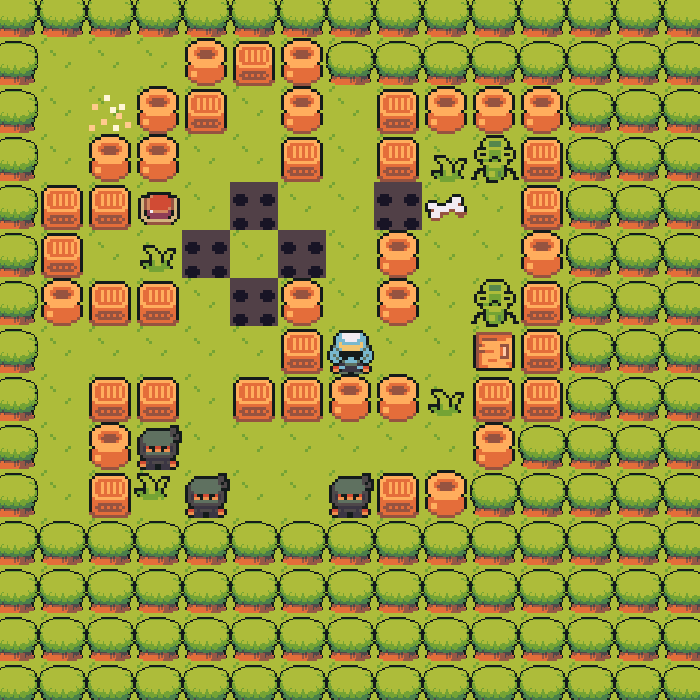
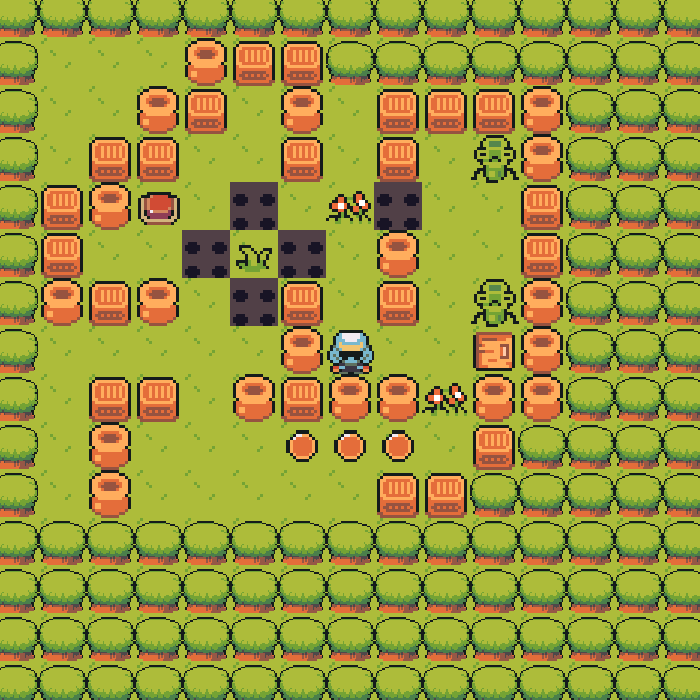
coin

diff --git a/game.py b/game.py
@@ -1,6 +1,5 @@
 import pygame
 import sys
-import time
 from camera import Camera
 from floor import Floor
 from button import Button
@@ -64,28 +63,26 @@ class Game:
         }
         self.activeMenu = False
         self.activeOptionsMenu = False
-        self.enemies = []
-        self.coordSpikes = []
+        self.enemies = None
+        self.coordSpikes = None
         self.player = None
-        self.camera = Camera(self)
+        self.camera = None
         # группы спрайтов
-        self.all_sprites = pygame.sprite.Group()
-        self.tiles_group = pygame.sprite.Group()
-        self.player_group = pygame.sprite.Group()
-        self.enemies_group = pygame.sprite.Group()
-        self.ladders_group = pygame.sprite.Group()
+        self.all_sprites = None
+        self.tiles_group = None
+        self.player_group = None
+        self.enemies_group = None
+        self.ladders_group = None
+        self.moneyCounter = None
         self.optionsMenu = self.createOptionMenu()
         self.updateBindButtonText()
         self.pageSwitches = [Button(5, 330, 40, 40, '', image='leftBtn.png', action=self.optionsMenu.previousPage,
                                     cols=3),
                              Button(655, 330, 40, 40, '', image='rightBtn.png', action=self.optionsMenu.nextPage,
                                     cols=3)]
-        level_list = functions.load_level('map.txt')
-        self.level, self.player, self.enemies, self.coordSpikes, self.level_x, self.level_y = functions.generate_level(
-            level_list,
-            self,
-            False)
-        self.namesLevels = listdir('Data/levels')
+        self.level, self.player, self.enemies, self.coordSpikes, self.level_x, self.level_y = [None, None, None,
+                                                                                               None, None, None]
+        self.dirLevels = listdir('Data/levels')
         self.indLevel = 0
 
     def run(self, name_level):
@@ -122,9 +119,11 @@ class Game:
                      [Button(0, 0, 80, 80, 'PLAY', action=self.closeMenu,
                              image='buttonLong.png'),
                       Button(0, 0, 80, 80, 'OPTIONS', image='buttonLong.png', action=self.openOptionsMenu),
+                      Button(0, 0, 80, 80, 'RESET', name_level, action=self.run, image='buttonLong.png'),
                       Button(0, 0, 80, 80, 'LEVELS', action=self.menu_levels,
-                             image='buttonLong.png'),
-                      Button(0, 0, 80, 80, 'MENU', action=self.menu, image='buttonLong.png')])
+                             image='buttonLong.png')])
+        self.moneyCounter = RowWidgets(5, 0, 65, 50, [Picture(0, 0, 'Data/sprites/coinUI.png', 30, 30),
+                                                      Text(0, 0, (0, 0, 0), 30, '0')])
         pygame.image.save(self.screen, f'Data/screenShots/{name_level.rstrip(".txt")}SH.png')
         while True:
             self.screen.fill(pygame.Color('white'))
@@ -166,6 +165,7 @@ class Game:
                 self.camera.apply(sprite)
                 sprite.draw(self.screen)
             pause_btn.draw(self.screen)
+            self.moneyCounter.draw(self.screen)
             if self.check_intersection():
                 self.death()
                 self.end_screen(False)
@@ -251,7 +251,7 @@ class Game:
         fon = self.tile_images['fon']
         self.screen.blit(fon, (0, 0))
         levels = []
-        for level in self.namesLevels:
+        for level in self.dirLevels:
             nameLevel = level.rstrip('.txt')
             levels.append([])
             levels[-1].append(Text(125, 20, (0, 0, 0), 50, nameLevel))
@@ -286,7 +286,7 @@ class Game:
                         self.leftBtn()
                 if event.type == pygame.JOYBUTTONDOWN:
                     if event.button == 0:
-                        self.run(self.namesLevels[self.indLevel])
+                        self.run(self.dirLevels[self.indLevel])
                     if event.button == 7:
                         self.menu()
                     if event.button == self.settings.bindsJoystick['right']:
@@ -511,6 +511,9 @@ class Game:
                     elif self.optionsMenu[indPage][indWidget].getText() == 'KeyBoard Binds':
                         useKeyBoard = True
                         useJoystick = False
+
+    def updateMoneyCounter(self, count):
+        self.moneyCounter[1].setText(count)
 
 
 game = Game()

diff --git a/player.py b/player.py
@@ -13,7 +13,7 @@ class Player(DynamicGameObject):
         super().__init__(sheet, pos_x, pos_y, game, 4, 1, game.player_group)
         self.rect = self.image.get_rect().move(game.tile_width * pos_x + 1, game.tile_height * pos_y + 1)
         self.key = False
-        self.starCounter = 0
+        self.moneyCounter = 0
         self.buttonDown = False
         self.killer = None  # Тот кто убил персонажа
 
@@ -121,8 +121,8 @@ class Player(DynamicGameObject):
                     self.killer = self.game.level[y][x]
             elif _type == Coin:
                 if self.game.level[y][x].isActive():
-                    self.starCounter += 1
-                print(self.starCounter)
+                    self.moneyCounter += 1
+                    self.game.updateMoneyCounter(self.moneyCounter)
             return self.game.level[y][x].stepOn(self)
         except IndexError:
             return False
@@ -138,3 +138,6 @@ class Player(DynamicGameObject):
 
     def setKiller(self, killer):
         self.killer = killer
+
+    def getCountMoney(self):
+        return self.moneyCounter

diff --git a/picture.py b/picture.py
@@ -6,13 +6,22 @@ import os
 
 
 class Picture:
-    def __init__(self, x, y, path_file, sizeX, sizeY):
+    def __init__(self, x, y, path_file, width, height):
         if not os.path.isfile(path_file):
             print('Файл не найден')
             sys.exit()
+        self.width = width
+        self.height = height
         self.image = pygame.image.load(path_file)
-        self.image = pygame.transform.scale(self.image, (sizeX, sizeY))
+        self.image = pygame.transform.scale(self.image, (self.width, self.height))
         self.rect = self.image.get_rect().move(x, y)
 
     def draw(self, screen):
         screen.blit(self.image, self.rect)
+
+    def updateCoord(self, x, y):
+        self.rect.x = x
+        self.rect.y = y
+
+    def reSize(self, sizeX, sizeY):
+        self.image = pygame.transform.scale(self.image, (sizeX, sizeY))

diff --git a/text.py b/text.py
@@ -9,6 +9,7 @@ class Text:
         self.width, self.height = font.size(str(text))
         self.message = str(text)
         self.color = color
+        self.size = size
         self.rect = Coord(x, y)
 
     def updateCoord(self, x, y):
@@ -24,3 +25,9 @@ class Text:
 
     def getText(self):
         return self.message
+
+    def setText(self, text):
+        font = pygame.font.Font('Data/fonts/pixelFont.ttf', self.size)
+        self.text = font.render(str(text), 0, self.color)
+        self.width, self.height = font.size(str(text))
+        self.message = str(text)

diff --git a/functions.py b/functions.py
@@ -56,7 +56,7 @@ def generate_level(level, game, inHouse):
     spikesCoord = []
     closed = False
     tilesFloor = 'empty' if inHouse else 'grass'
-    level = ['T' * 18] * 8 + level + ['T' * 18] * 8
+    level = ['T' * (18 + len(level[0]))] * 8 + level + ['T' * (18 + len(level[-1]))] * 8
     for y in range(len(level)):
         level[y] = 'T' * 9 + level[y] + 'T' * 9
         for x in range(len(level[y])):
